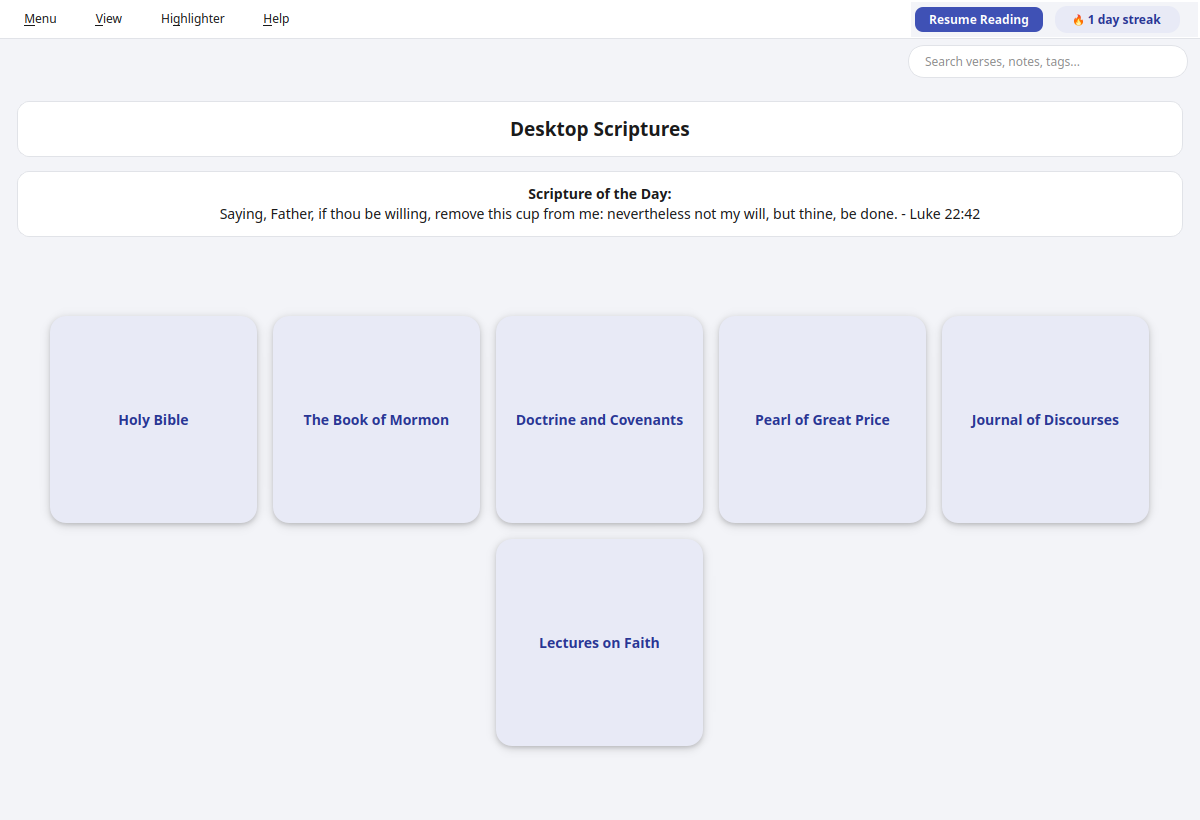
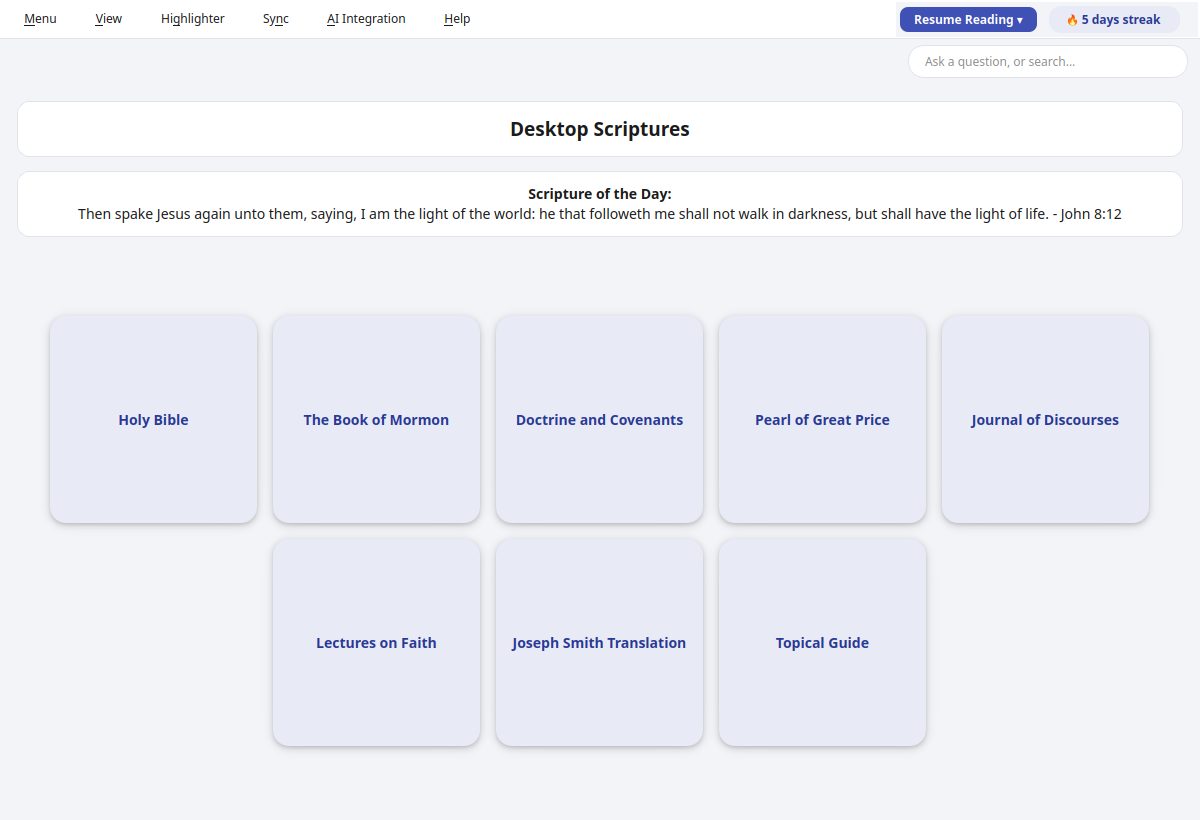
Update README screenshots for v2.0
landing.png and chapter.png were still showing the pre-2.0 menu bar
(missing Sync and AI Integration) and an incomplete card set (missing
Topical Guide and Joseph Smith Translation, added in earlier releases
the screenshots never caught up to). Regenerated both against the
current UI, same content as before (John 3:16 highlighted, tagged, and
noted) for a fair comparison.

Added ai-search.png, new: a natural-language question answered with
real, validated scripture matches, then narrowed with a follow-up
refinement - the flagship v2.0 feature.

diff --git a/README.md b/README.md
@@ -33,6 +33,8 @@ separately-copyrighted Topical Guide.
 
 ![A chapter open with a highlight, chapter tags/note, and a verse note](docs/screenshots/chapter.png)
 
+![AI-assisted search answering a natural-language question, then narrowed with a follow-up](docs/screenshots/ai-search.png)
+
 ## Install
 
 Desktop Scriptures is published on the Snap Store:
